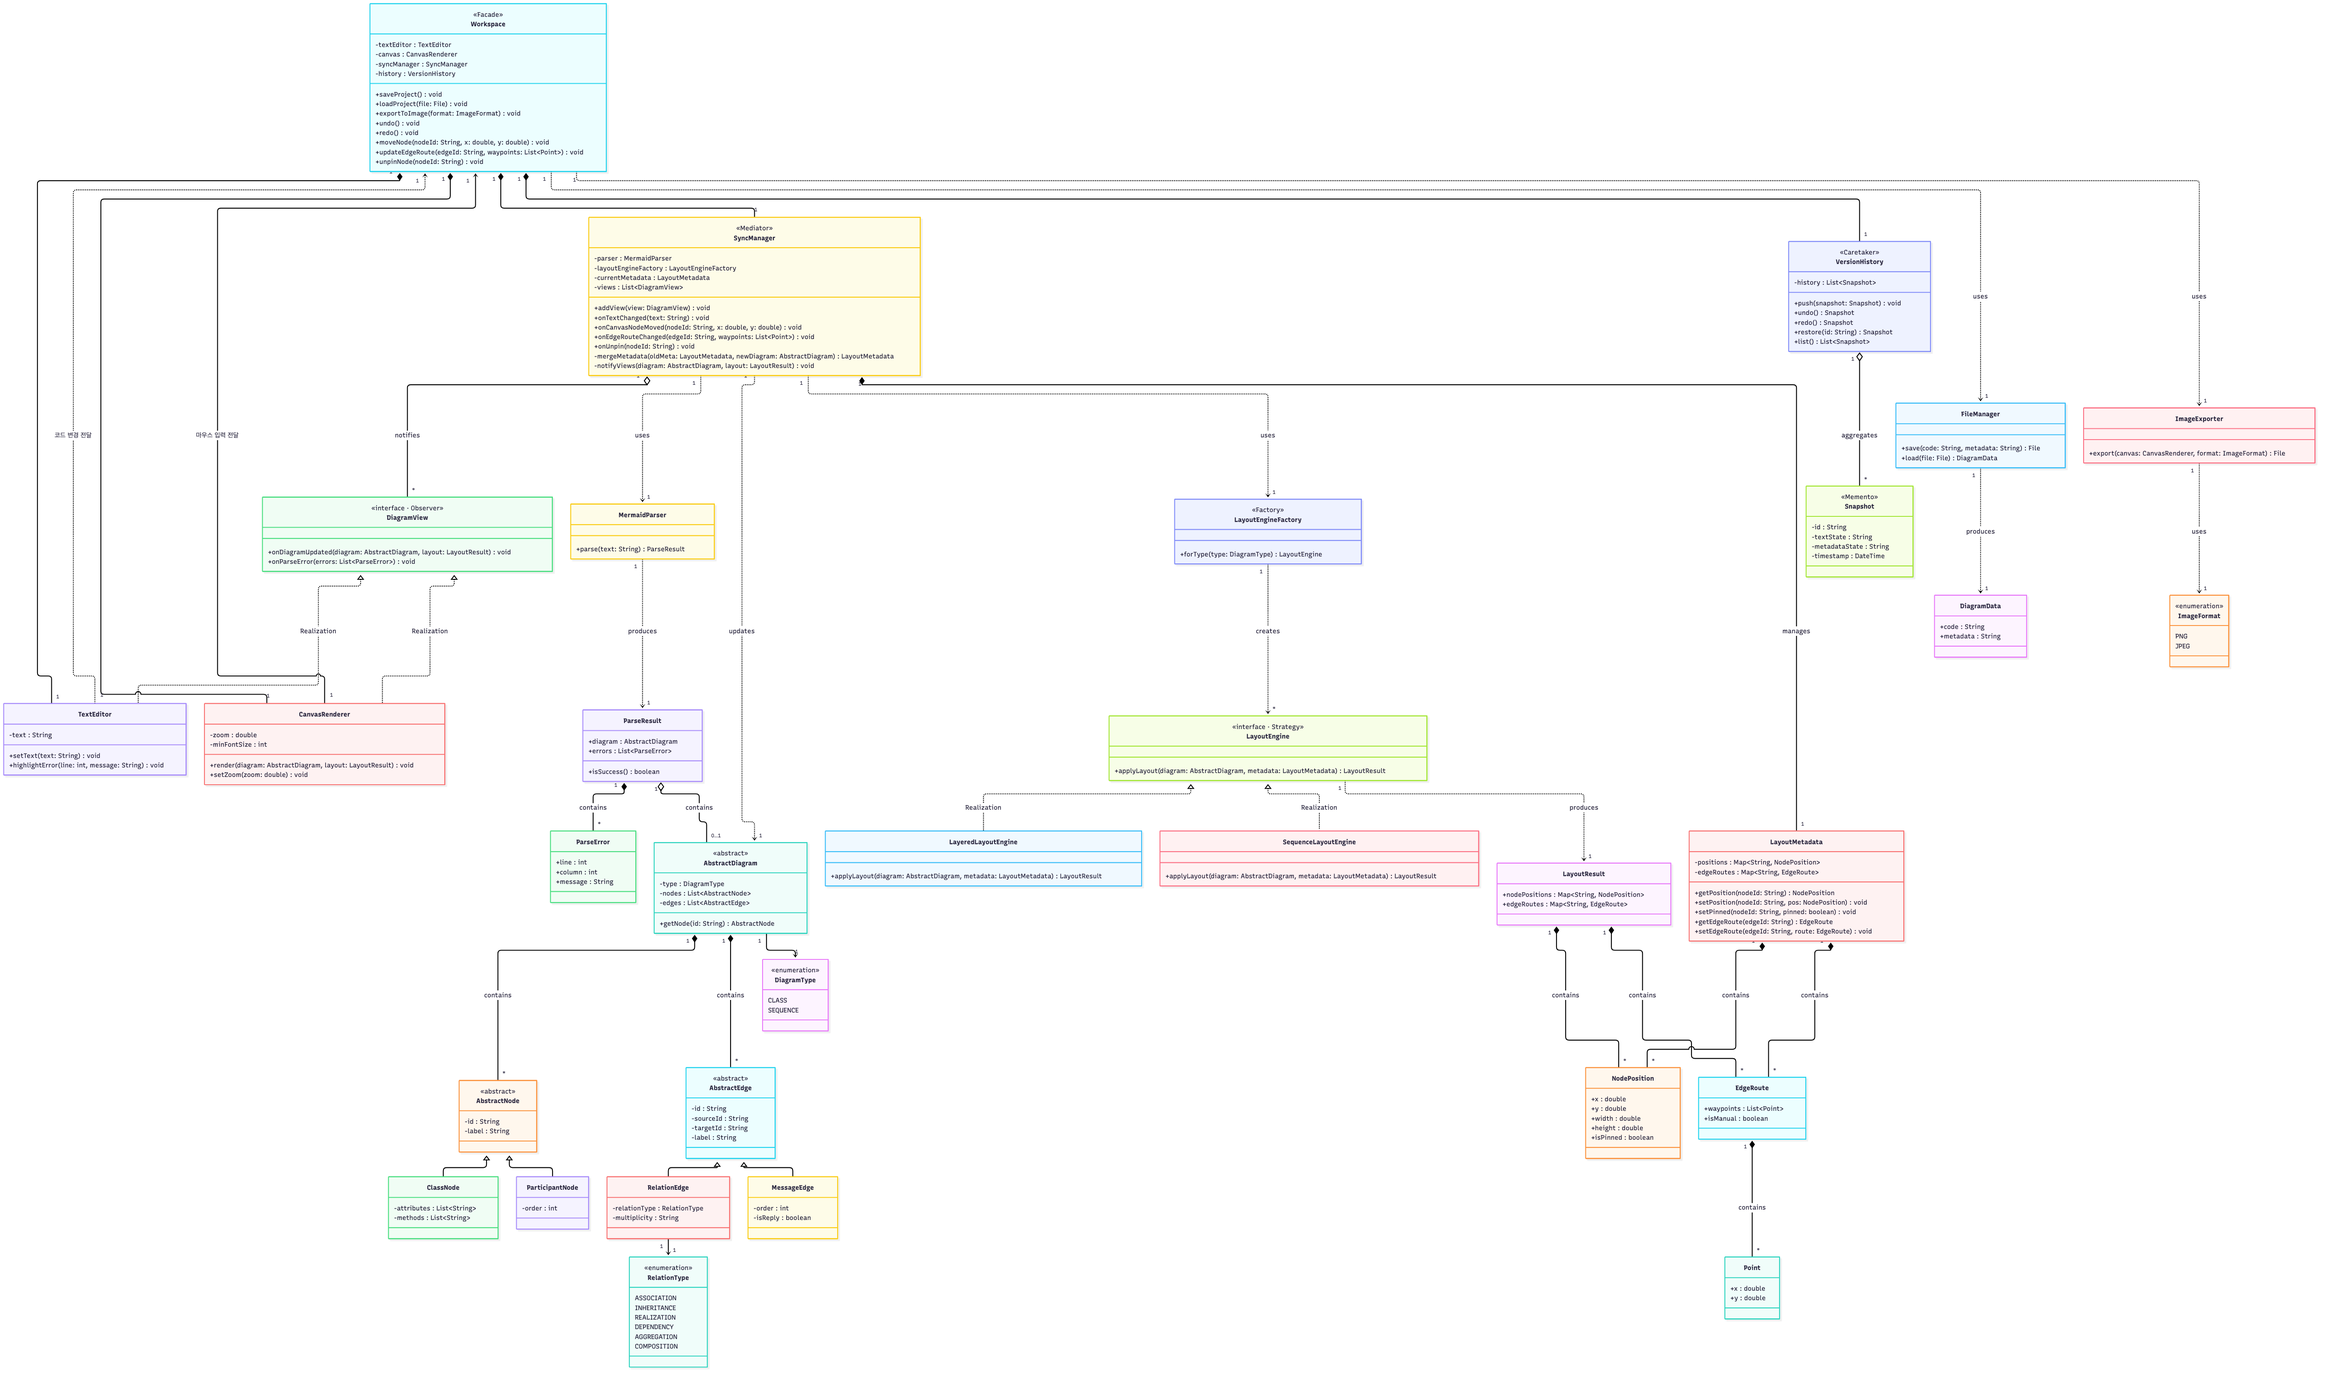
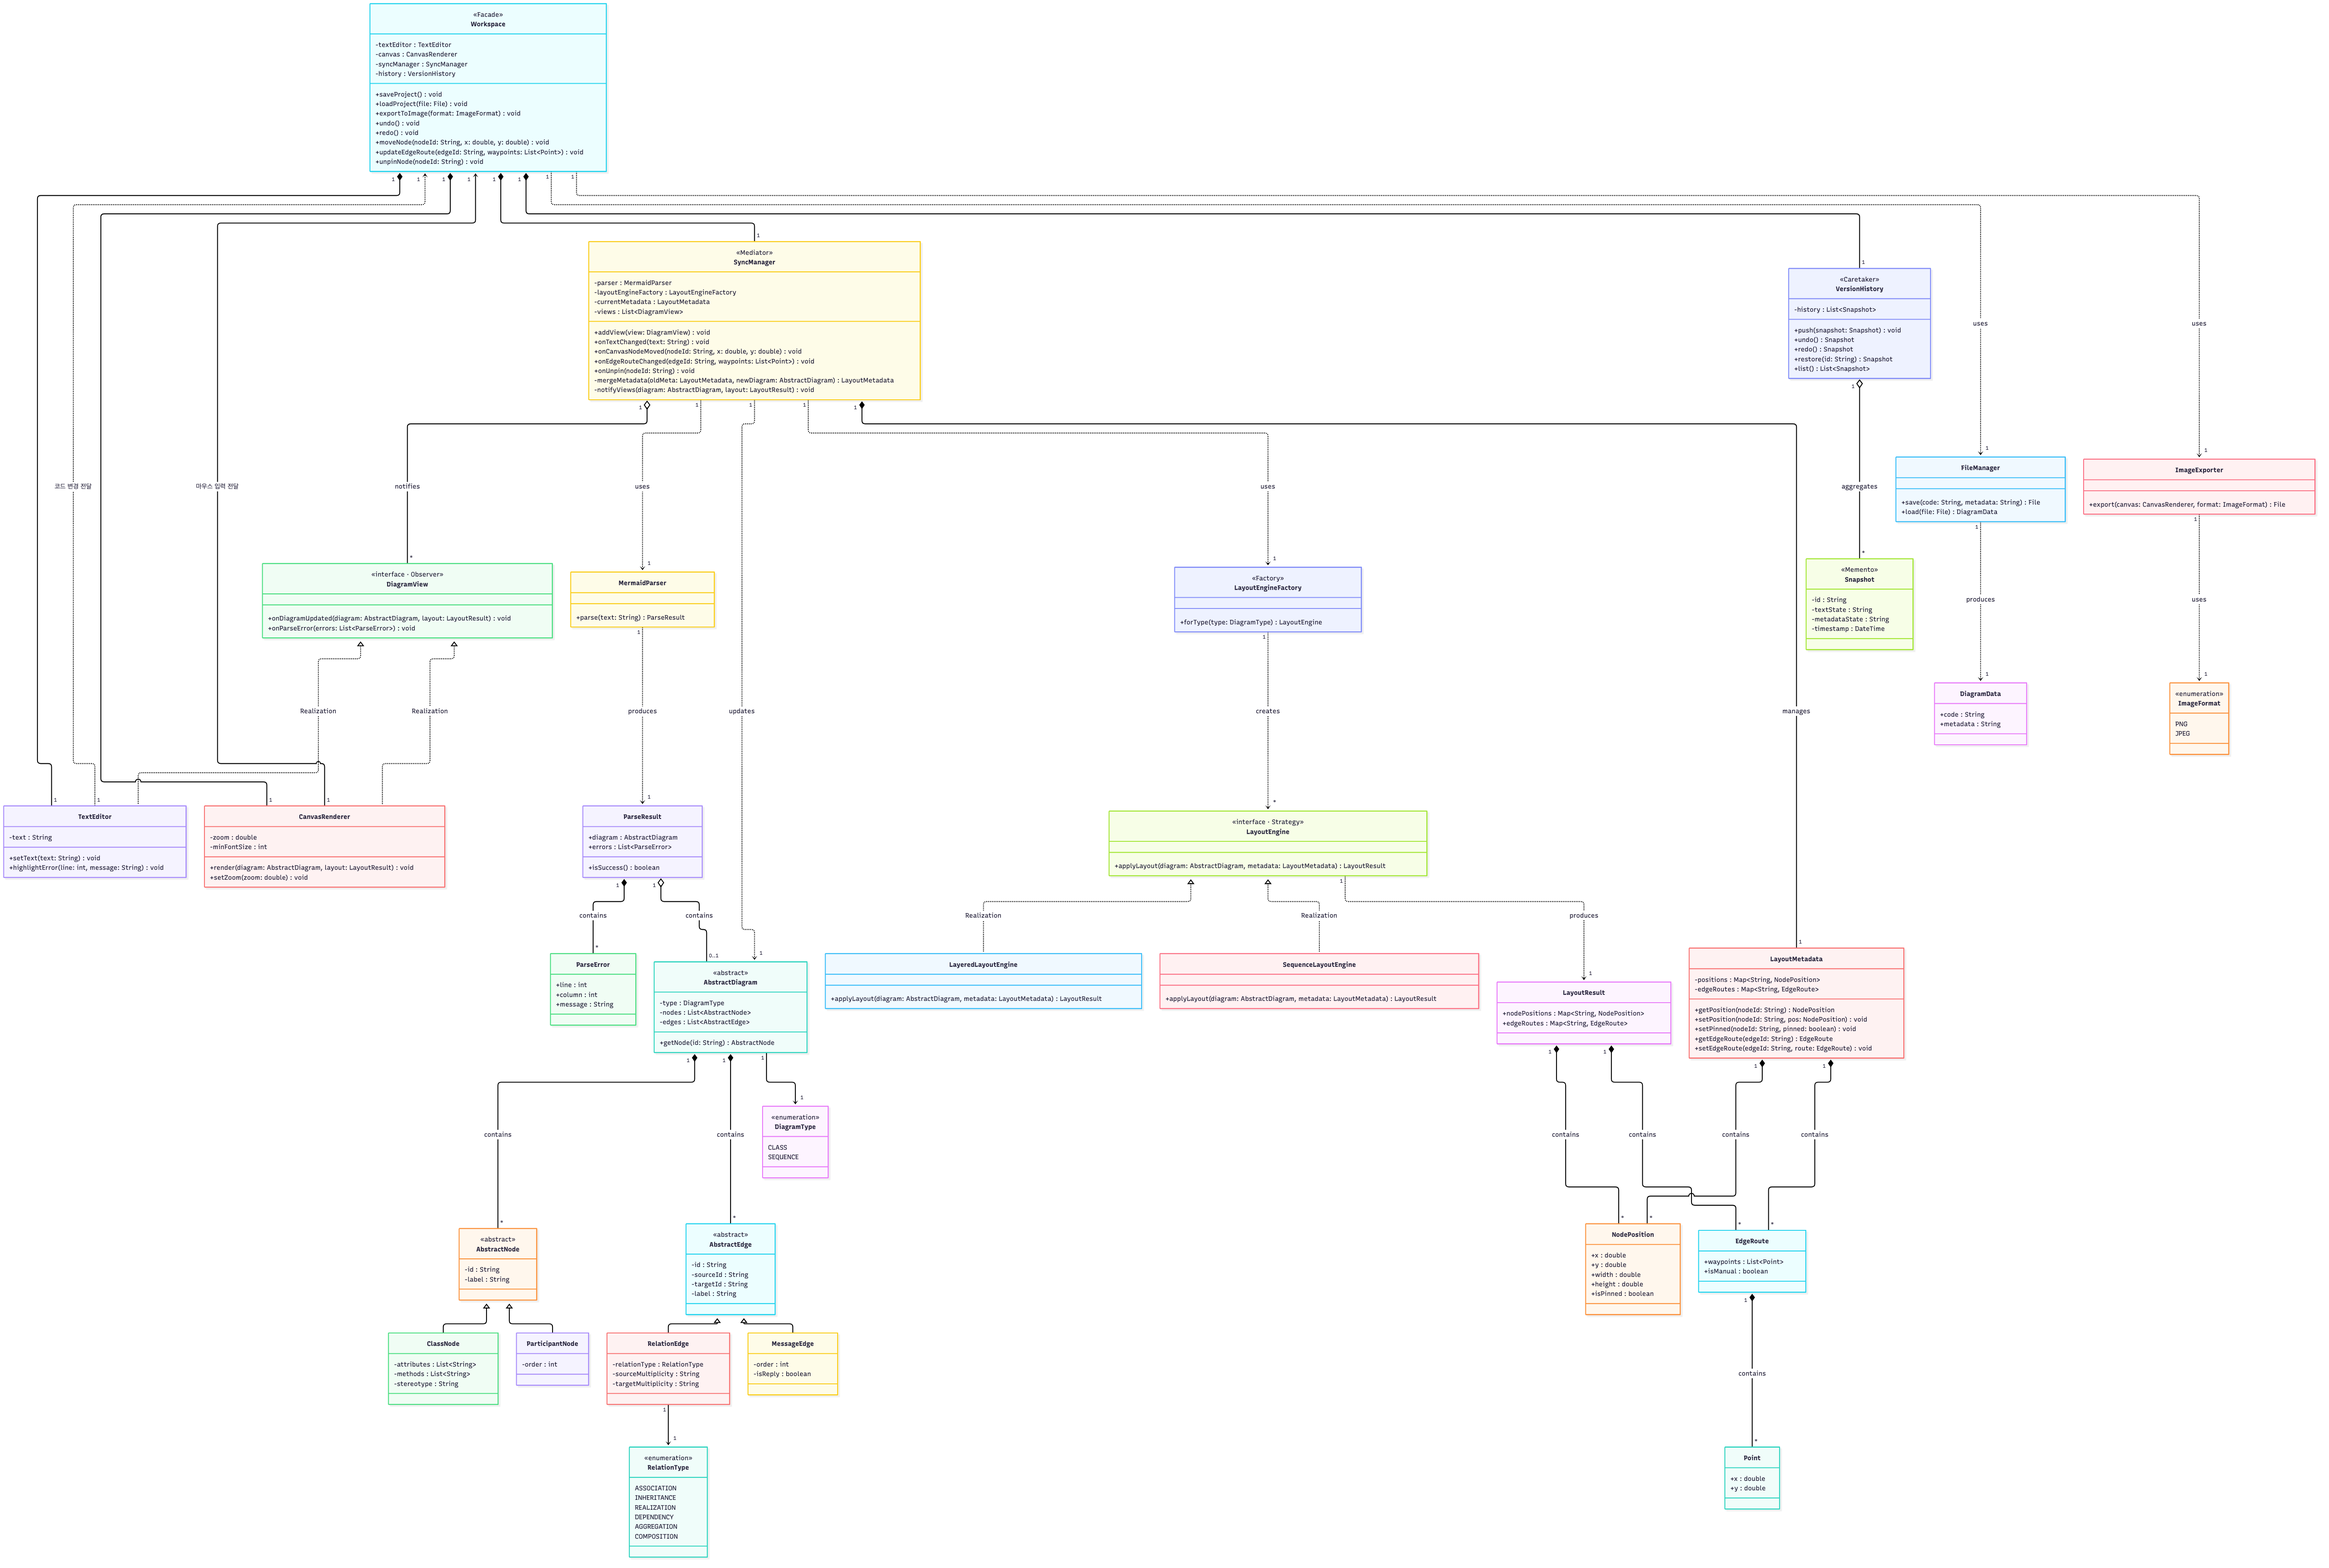
Shared types: ClassNode.stereotype, RelationEdge multiplicity per end
Interview Q5 (UML standard) and 'paper figures follow the standard':
- FR-05-6 needs interface/abstract/enumeration, so ClassNode carries the << >> text
- UML writes multiplicity at each end, so split into source/target

diff --git a/src/domain/contracts.test.ts b/src/domain/contracts.test.ts
@@ -2,6 +2,7 @@
 import { describe, expect, it } from 'vitest';
 import { LayoutMetadata } from './metadata/LayoutMetadata';
 import { AbstractDiagram } from './model/diagram';
+import { RelationEdge } from './model/edges';
 import { ClassNode } from './model/nodes';
 import { DiagramType, RelationType } from './model/types';
 import { FakeLayoutEngine } from '../testing/fakes';
@@ -26,5 +27,21 @@ describe('가짜 레이아웃 엔진', () => {
     const diagram = new AbstractDiagram(DiagramType.CLASS, [new ClassNode('A', 'A')]);
     const result = await new FakeLayoutEngine().applyLayout(diagram, new LayoutMetadata());
     expect(result.nodePositions.has('A')).toBe(true);
+  });
+});
+
+describe('UML 표준 표기에 필요한 정보 (인터뷰 Q5)', () => {
+  it('클래스는 스테레오타입을 담는다 (FR-05-6)', () => {
+    expect(new ClassNode('Shape', 'Shape', [], [], 'interface').stereotype).toBe('interface');
+    expect(new ClassNode('A', 'A').stereotype).toBe('');
+  });
+
+  it('관계는 다중성을 양 끝에 따로 담는다', () => {
+    const edge = new RelationEdge('A-ASSOCIATION-B', 'A', 'B', RelationType.ASSOCIATION, {
+      sourceMultiplicity: '1',
+      targetMultiplicity: '0..*',
+      label: 'owns',
+    });
+    expect([edge.sourceMultiplicity, edge.targetMultiplicity, edge.label]).toEqual(['1', '0..*', 'owns']);
   });
 });

diff --git a/src/domain/model/edges.ts b/src/domain/model/edges.ts
@@ -10,16 +10,32 @@ export abstract class AbstractEdge {
   ) {}
 }
 
+export interface RelationEdgeOptions {
+  /** source 끝에 붙는 다중성. 예: '1', '0..*'. 없으면 '' */
+  sourceMultiplicity?: string;
+  /** target 끝에 붙는 다중성 */
+  targetMultiplicity?: string;
+  label?: string;
+}
+
 export class RelationEdge extends AbstractEdge {
+  /**
+   * UML은 다중성을 관계의 양 끝에 따로 쓴다(인터뷰 Q5 UML 표준, 인터뷰 추가 "논문용이니 표준에 맞춘다").
+   * 예: `A "1" --> "*" B` → sourceMultiplicity '1', targetMultiplicity '*'
+   */
+  readonly sourceMultiplicity: string;
+  readonly targetMultiplicity: string;
+
   constructor(
     id: string,
     sourceId: string,
     targetId: string,
     readonly relationType: RelationType,
-    readonly multiplicity: string = '',
-    label = '',
+    options: RelationEdgeOptions = {},
   ) {
-    super(id, sourceId, targetId, label);
+    super(id, sourceId, targetId, options.label ?? '');
+    this.sourceMultiplicity = options.sourceMultiplicity ?? '';
+    this.targetMultiplicity = options.targetMultiplicity ?? '';
   }
 }
 

diff --git a/src/domain/model/nodes.ts b/src/domain/model/nodes.ts
@@ -14,6 +14,11 @@ export class ClassNode extends AbstractNode {
     label: string,
     readonly attributes: string[] = [],
     readonly methods: string[] = [],
+    /**
+     * << >> 안의 글자. 예: 'interface', 'abstract', 'enumeration'. 없으면 ''.
+     * 화면은 이름 위에 «interface»처럼 그린다(인터뷰 Q5 UML 표준, FR-05-6).
+     */
+    readonly stereotype: string = '',
   ) {
     super(id, label);
   }
